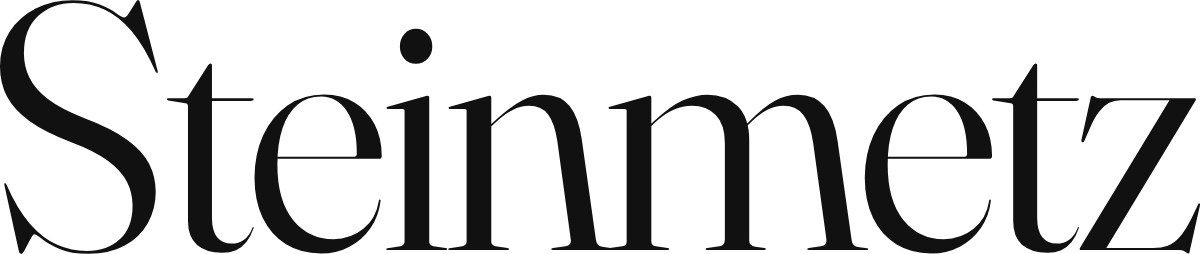
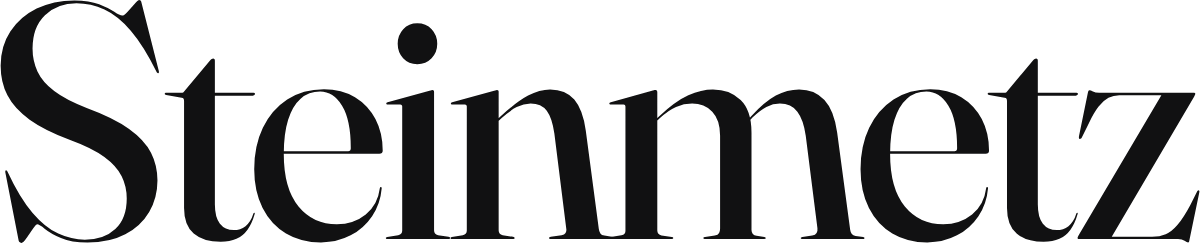
style(marca): el wordmark sube de 340 a 440
Un punto más de cuerpo, pedido por Ian. Sigue siendo un peso único y
el contraste alto de Fraunces con el eje óptico en 144 se mantiene: a
440 los gruesos ganan presencia sin que las terminaciones finas se
engorden. Nueva proporción del trazado: 4,933:1.

Actualizado en la página, en el generador y en los archivos SVG y PNG.

Claude-Session: https://claude.ai/code/session_018cdrz3tjuhoQi9CPDpkr1C

diff --git a/marca/index.html b/marca/index.html
@@ -53,7 +53,7 @@ a{color:var(--tinta);text-decoration-thickness:1px;text-underline-offset:.22em}
 /* ── portada ── */
 .portada{padding:clamp(4rem,14vh,9rem) 0 clamp(3rem,8vh,5rem)}
 .marca-viva{font-family:var(--serif);font-optical-sizing:auto;display:flex;user-select:none;
-  font-variation-settings:"wght" 340,"opsz" 144;
+  font-variation-settings:"wght" 440,"opsz" 144;
   line-height:1;letter-spacing:-.03em;font-size:clamp(3rem,14vw,11rem);cursor:default;
   justify-content:center}
 .marca-viva span{display:inline-block}
@@ -103,7 +103,7 @@ p+p{margin-top:1rem}
 .espec{display:grid;place-items:center;padding:clamp(2.2rem,6vw,4.5rem);background:var(--panel);
   border:1px solid var(--linea)}
 .wm{font-family:var(--serif);font-optical-sizing:auto;line-height:1;letter-spacing:-.03em;
-  font-variation-settings:"wght" 340,"opsz" 144;color:var(--tinta)}
+  font-variation-settings:"wght" 440,"opsz" 144;color:var(--tinta)}
 
 /* espacio libre: x = altura de la S */
 .aire{position:relative;display:inline-block;padding:.72em;
@@ -139,7 +139,7 @@ p+p{margin-top:1rem}
   --medio:#6e6e73;--suave:#75757a;--linea:rgba(17,17,18,.16);
   background:#ffffff;color:#111112}
 .papel-doc{border:1px solid var(--linea);padding:1.15rem 1.25rem}
-.papel-doc .nom{font-family:var(--serif);font-variation-settings:"wght" 340,"opsz" 144;
+.papel-doc .nom{font-family:var(--serif);font-variation-settings:"wght" 440,"opsz" 144;
   font-size:1.2rem;line-height:1.1;letter-spacing:-.015em}
 .papel-doc .rut{font-family:var(--mono);font-size:.58rem;letter-spacing:.05em;color:var(--suave);
   margin-top:.35rem;line-height:1.7}
@@ -148,14 +148,14 @@ p+p{margin-top:1rem}
 .papel-doc .s{font-family:var(--mono);font-size:.58rem;color:var(--suave);margin-top:.22rem}
 .lamina{aspect-ratio:16/9;background:#f4f4f2;border:1px solid var(--linea);
   display:flex;flex-direction:column;justify-content:space-between;padding:1.6rem 1.7rem}
-.lamina .m{font-family:var(--serif);font-variation-settings:"wght" 340,"opsz" 144;
+.lamina .m{font-family:var(--serif);font-variation-settings:"wght" 440,"opsz" 144;
   font-size:1.5rem;line-height:1;letter-spacing:-.015em}
 .lamina .tema-l{font-family:var(--serif);font-variation-settings:"wght" 400,"opsz" 60;
   font-size:clamp(1.1rem,2.4vw,1.7rem);line-height:1.3;max-width:20em;color:var(--tinta)}
 .lamina .p2{font-family:var(--mono);font-size:.58rem;letter-spacing:.16em;color:var(--medio)}
 .tarjeta{aspect-ratio:85/55;border:1px solid var(--linea);max-width:19rem;
   padding:1rem;display:flex;flex-direction:column;justify-content:space-between}
-.tarjeta .m{font-family:var(--serif);font-variation-settings:"wght" 340,"opsz" 144;
+.tarjeta .m{font-family:var(--serif);font-variation-settings:"wght" 440,"opsz" 144;
   font-size:1.2rem;line-height:1;letter-spacing:-.015em}
 .tarjeta .d{font-family:var(--mono);font-size:.56rem;line-height:1.9;color:var(--suave)}
 .tarjeta .d b{display:block;color:var(--tinta);font-size:.6rem;font-weight:600;letter-spacing:.04em}
@@ -218,7 +218,7 @@ pre b{color:var(--tinta);font-weight:500}
 
 /* lockup */
 .lockup{display:inline-flex;flex-direction:column;gap:.45rem}
-.lockup .l-nom{font-family:var(--serif);font-variation-settings:"wght" 340,"opsz" 144;
+.lockup .l-nom{font-family:var(--serif);font-variation-settings:"wght" 440,"opsz" 144;
   font-size:2.6rem;line-height:1;letter-spacing:-.03em}
 .lockup .l-des{font-family:var(--mono);font-size:.68rem;letter-spacing:.2em;color:var(--medio);
   padding-top:.5rem;border-top:1px solid var(--linea)}
@@ -302,7 +302,7 @@ footer a:hover{text-decoration:underline}
 
       <h3>Un solo peso</h3>
       <p class="p">Todas las letras pesan lo mismo:
-        <code style="font-family:var(--mono)">wght 340</code>. El contraste del wordmark no viene de
+        <code style="font-family:var(--mono)">wght 440</code>. El contraste del wordmark no viene de
         variar el peso entre letras sino de la propia Fraunces, cuyos trazos gruesos se afilan hasta
         el pelo con el eje óptico en 144. <b>El peso no se modifica.</b></p>
 
@@ -311,7 +311,7 @@ footer a:hover{text-decoration:underline}
         terminaciones finas desaparecen y la palabra se ensucia. Ahí se usa el monograma.</p>
 
       <h3>Comportamiento en pantalla</h3>
-      <p class="p">Las letras engordan de 340 a 900 según la cercanía del puntero. Es el único
+      <p class="p">Las letras engordan de 440 a 900 según la cercanía del puntero. Es el único
         movimiento del sistema y vive sólo en la marca: no se aplica a titulares ni a ningún otro
         texto.</p>
     </div></div>
@@ -519,7 +519,7 @@ footer a:hover{text-decoration:underline}
           <div class="wm" style="font-size:clamp(1.6rem,4.5vw,2.6rem)">Steinmetz</div>
         </div>
       </div>
-      <p class="pie-fig" style="margin-top:0;margin-bottom:2.4rem">Así se usa: peso 340, interletra
+      <p class="pie-fig" style="margin-top:0;margin-bottom:2.4rem">Así se usa: peso 440, interletra
         original, tinta plana sobre fondo liso, con su espacio libre alrededor. Todo lo de abajo es
         lo que no.</p>
       <div class="rejilla g2 mal">
@@ -560,7 +560,7 @@ footer a:hover{text-decoration:underline}
   <b>/* tipografía */</b>
   --serif:"Fraunces",Georgia,serif;
   --mono:"IBM Plex Mono",ui-monospace,monospace;
-  --wordmark:"wght" 340,"opsz" 144;   /* letter-spacing:-.03em */
+  --wordmark:"wght" 440,"opsz" 144;   /* letter-spacing:-.03em */
   --titulo:"wght" 500,"opsz" 144;     /* letter-spacing:-.015em */
   --subtitulo:"wght" 600,"opsz" 60;
   --texto:"wght" 350,"opsz" 14;       /* line-height:1.7 */
@@ -604,7 +604,7 @@ footer a:hover{text-decoration:underline}
 
       <h3>Archivos del logo</h3>
       <p class="p">El wordmark está trazado a contornos: los archivos no dependen de que cargue
-        Fraunces. La proporción es <b>4,729 : 1</b> y no se altera.</p>
+        Fraunces. La proporción es <b>4,933 : 1</b> y no se altera.</p>
       <div class="descargas">
         <a href="assets/steinmetz-wordmark.svg" download>SVG <span>wordmark, tinta</span></a>
         <a href="assets/steinmetz-wordmark-blanco.svg" download>SVG <span>wordmark, blanco</span></a>
@@ -692,7 +692,7 @@ footer a:hover{text-decoration:underline}
     }
   });
 
-  var PESO = 340;                            // el peso del wordmark, uno solo
+  var PESO = 440;                            // el peso del wordmark, uno solo
 
   /* la portada parte la palabra en letras para que respondan al puntero */
   (function partir(el){

diff --git a/marca/assets/_generar_logo.py b/marca/assets/_generar_logo.py
@@ -26,7 +26,7 @@ TINTA = "#111112"
 PAPEL = "#ffffff"
 
 
-PESO = 340
+PESO = 440
 
 
 def bajar_fuente():
